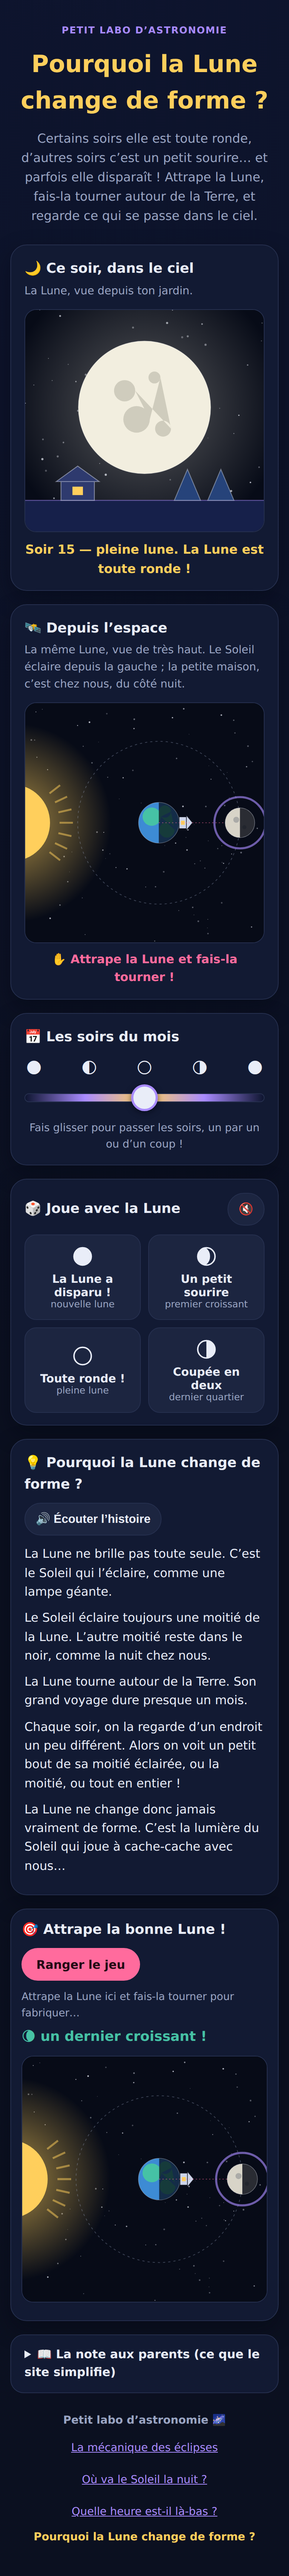
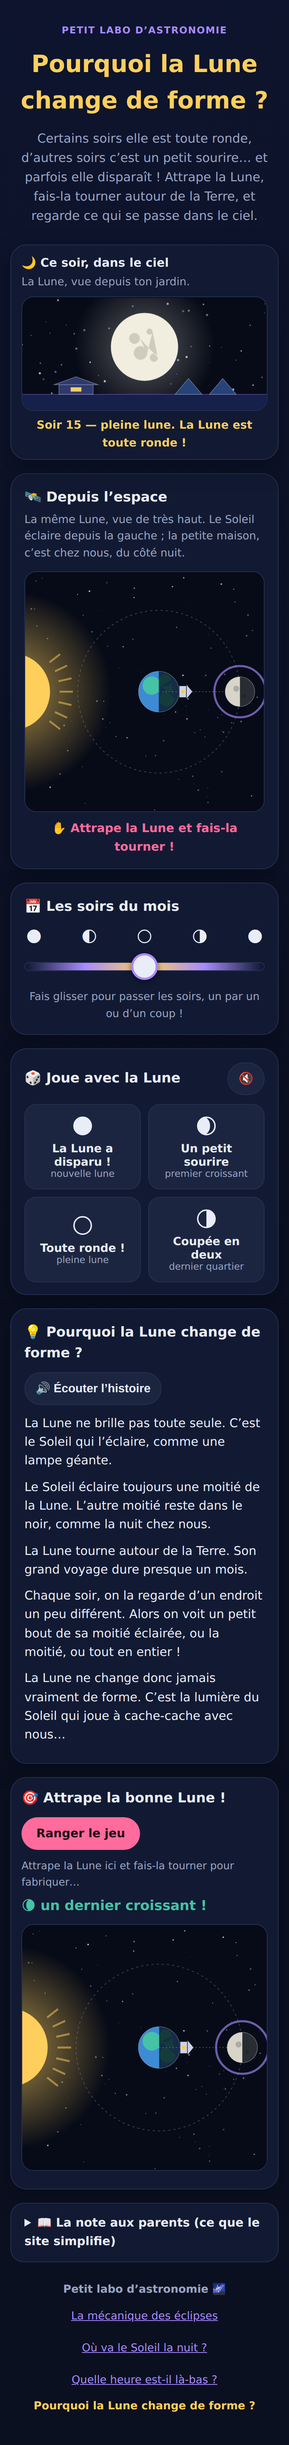
feat: les deux vues sur le même écran mobile, médaillon-fenêtre
- Sur mobile, le hublot se compacte en bandeau paysage (13/6, la Lune
  au-dessus du jardin) et reste collé en haut d'écran pendant la section
  des deux vues (si l'écran fait au moins 600 px de haut) : l'enfant
  voit la forme changer pendant qu'il fait tourner la Lune.
- Le médaillon flottant devient un mini hublot (ciel, Lune, jardin)
  cerclé d'or : il se lit comme une fenêtre sur le soir et ne se
  confond plus avec la Lune attrapable, dont l'anneau violet reste la
  signature. Il réutilise creerVueHublot au lieu de dessiner à la main.
- Invariants mobiles mis à jour dans CLAUDE.md, captures docs/
  régénérées (suite navigateur : trois passes vertes).

Claude-Session: https://claude.ai/code/session_01NQbVUC8gY8CoJhDE4di9K5

Changed region(s): [[0.0308, 0.0, 0.9231, 0.9967], [0.8615, 0.0, 0.8923, 0.0311]]

diff --git a/js/main.js b/js/main.js
@@ -5,11 +5,11 @@
  * que brancher.
  */
 import {
-  CYCLE_JOURS, jourNormalise, phraseDuSoir, formeLune,
+  CYCLE_JOURS, jourNormalise, phraseDuSoir,
   SCENARIOS, DEFIS, defiReussi
 } from './model.js';
 import { creerVueOrbite } from './vue-orbite.js';
-import { creerVueHublot, dessinerDisqueLune } from './vue-hublot.js';
+import { creerVueHublot } from './vue-hublot.js';
 
 /* ------------------------------------------------------------------ */
 /* L'état                                                              */
@@ -70,6 +70,9 @@ var vueHublot = creerVueHublot(canvasHublot);
 /* Les mêmes vues, en petit, sous le jeu — synchronisées sur le même jour. */
 var vueOrbiteJeu = creerVueOrbite(canvasOrbiteJeu);
 var vueHublotJeu = creerVueHublot(canvasHublotJeu);
+/* Le médaillon est un mini hublot (ciel, Lune, jardin) : une fenêtre sur le
+ * soir, impossible à confondre avec la Lune attrapable de la vue de l'espace. */
+var vueMedaillon = creerVueHublot(canvasMedaillon);
 
 /* ------------------------------------------------------------------ */
 /* Changer de jour                                                     */
@@ -181,12 +184,7 @@ function gererMedaillon() {
   medaillon.hidden = !visible;
   if (!visible) return;
   ajusterCanvas(canvasMedaillon);
-  var ctx = canvasMedaillon.getContext('2d');
-  var w = canvasMedaillon.width;
-  var h = canvasMedaillon.height;
-  ctx.fillStyle = '#070b17';
-  ctx.fillRect(0, 0, w, h);
-  dessinerDisqueLune(ctx, w / 2, h / 2, Math.min(w, h) * 0.38, formeLune(etat.jour));
+  vueMedaillon.rendre(etat.jour);
 }
 
 /* Un tap sur le médaillon remonte à la vue du jardin — sauf pendant le jeu,

diff --git a/css/style.css b/css/style.css
@@ -349,7 +349,9 @@ input[type="range"]:focus-visible { outline: 3px solid var(--rose); outline-offs
   height: 60px;
   padding: 0;
   border-radius: 50%;
-  border: 2px solid var(--violet);
+  /* Anneau doré (la couleur du récit du soir) : le violet reste réservé à la
+   * Lune qu'on attrape dans la vue de l'espace. */
+  border: 2px solid var(--sun);
   background: #070b17;
   box-shadow: 0 6px 18px rgba(2, 5, 15, 0.65);
   cursor: pointer;
@@ -407,6 +409,32 @@ input[type="range"]:focus-visible { outline: 3px solid var(--rose); outline-offs
 
   .pied-serie ul { gap: 2px 12px; }
   .pied-serie a { display: inline-block; padding: 8px 6px; }
+
+  /* Les deux vues sur le même écran : le hublot se compacte en bandeau
+   * paysage (la Lune au-dessus du jardin) au-dessus de la vue de l'espace. */
+  .carte-hublot { padding: 12px 14px 10px; }
+
+  .carte-hublot h2 { font-size: 1rem; }
+  .carte-hublot .sous-titre { margin: 2px 0 8px; }
+
+  .carte-hublot .cadre-canvas { padding-bottom: 46%; }
+
+  @supports (aspect-ratio: 1 / 1) {
+    .carte-hublot .cadre-canvas { padding-bottom: 0; aspect-ratio: 13 / 6; }
+  }
+
+  .phrase-soir { font-size: 0.95rem; margin-top: 8px; min-height: 1.5em; }
+
+  /* Et il reste collé en haut pendant qu'on manœuvre la Lune — seulement si
+   * l'écran est assez haut pour que la vue de l'espace respire dessous. */
+  @media (min-height: 600px) {
+    .carte-hublot {
+      position: -webkit-sticky;
+      position: sticky;
+      top: 8px;
+      z-index: 5;
+    }
+  }
 }
 
 /* ---------- Note aux parents ---------- */

diff --git a/CLAUDE.md b/CLAUDE.md
@@ -66,15 +66,21 @@ Vérités verrouillées par `test/model.test.mjs` (à compléter, jamais supprim
   la micro-histoire du scénario et désarme son `aria-pressed`.
 - **Le jeu ne se gagne qu'en manœuvrant soi-même** (pas pendant une animation
   de scénario).
-- **Sur mobile (< 880 px) seulement** : un médaillon flottant (haut droit,
-  hors du chemin du pouce qui fait tourner la Lune) montre la Lune du soir dès
-  que la **carte** du hublot est entièrement sortie de l'écran (jamais avant :
-  il recouvrirait la phrase du soir) — un tap y ramène, sauf pendant le jeu où
-  il n'est qu'un afficheur (remonter sortirait l'enfant du jeu). Le jeu
-  n'affiche qu'une seule vue (l'espace), sans rien d'incrusté dans le canvas :
-  c'est le médaillon flottant qui montre le résultat, il reste donc visible
-  pendant le jeu. La vue de l'espace passe en carré sur mobile (l'orbite plus
-  grande sous le doigt). Rien de tout cela n'existe sur grand écran.
+- **Sur mobile (< 880 px) seulement** : le hublot se compacte en bandeau
+  paysage (13/6, la Lune au-dessus du jardin) et, si l'écran fait au moins
+  600 px de haut, reste **collé en haut** pendant la section des deux vues —
+  l'enfant voit la forme changer pendant qu'il fait tourner la Lune. La vue
+  de l'espace passe en carré (l'orbite plus grande sous le doigt). Plus bas
+  dans la page, un médaillon flottant (haut droit, hors du chemin du pouce)
+  prend le relais dès que la **carte** du hublot est entièrement sortie de
+  l'écran (jamais avant : il recouvrirait la phrase du soir). Le médaillon est
+  un **mini hublot** (ciel, Lune, jardin) cerclé d'or — le violet reste
+  réservé à la Lune attrapable, pour qu'on ne les confonde pas. Un tap y
+  ramène au jardin, sauf pendant le jeu où il n'est qu'un afficheur (remonter
+  sortirait l'enfant du jeu). Le jeu n'affiche qu'une seule vue (l'espace),
+  sans rien d'incrusté dans le canvas : c'est le médaillon qui montre le
+  résultat, il reste donc visible pendant le jeu. Rien de tout cela n'existe
+  sur grand écran.
 
 ## Le conteur (synthèse vocale)
 
